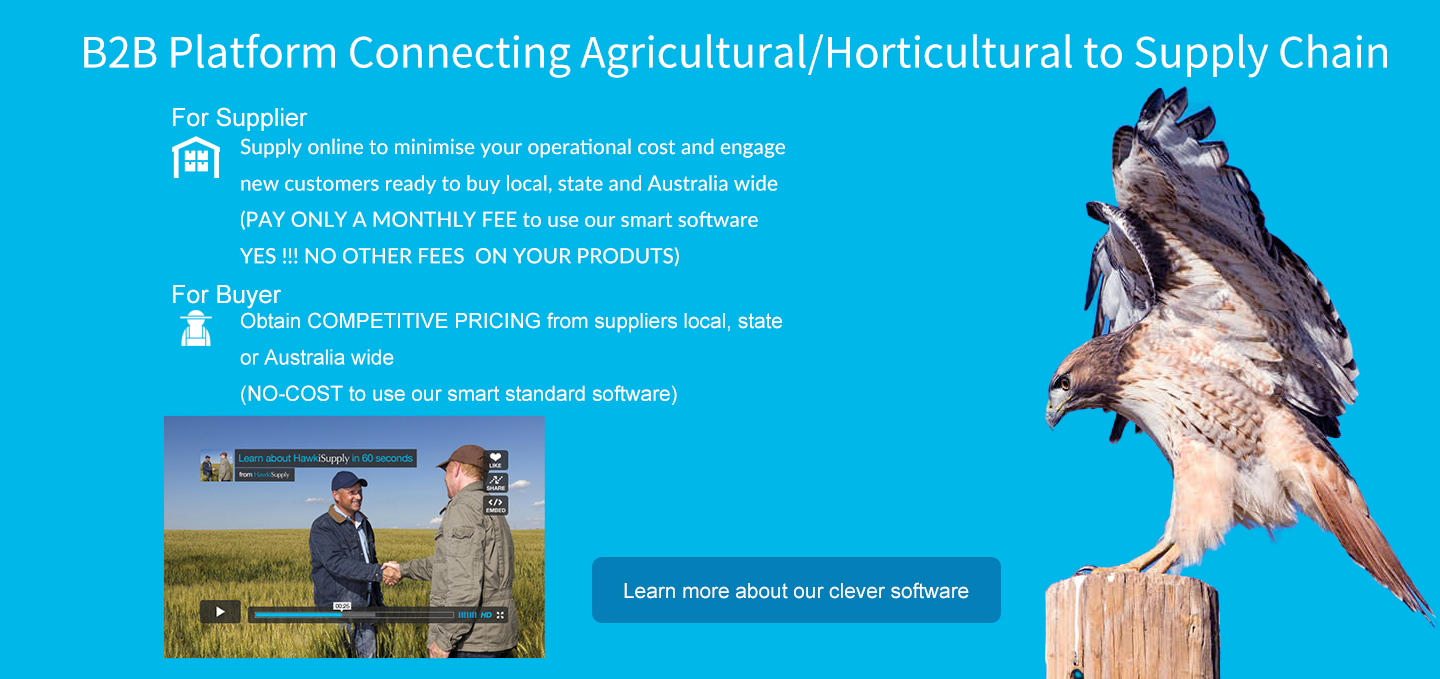
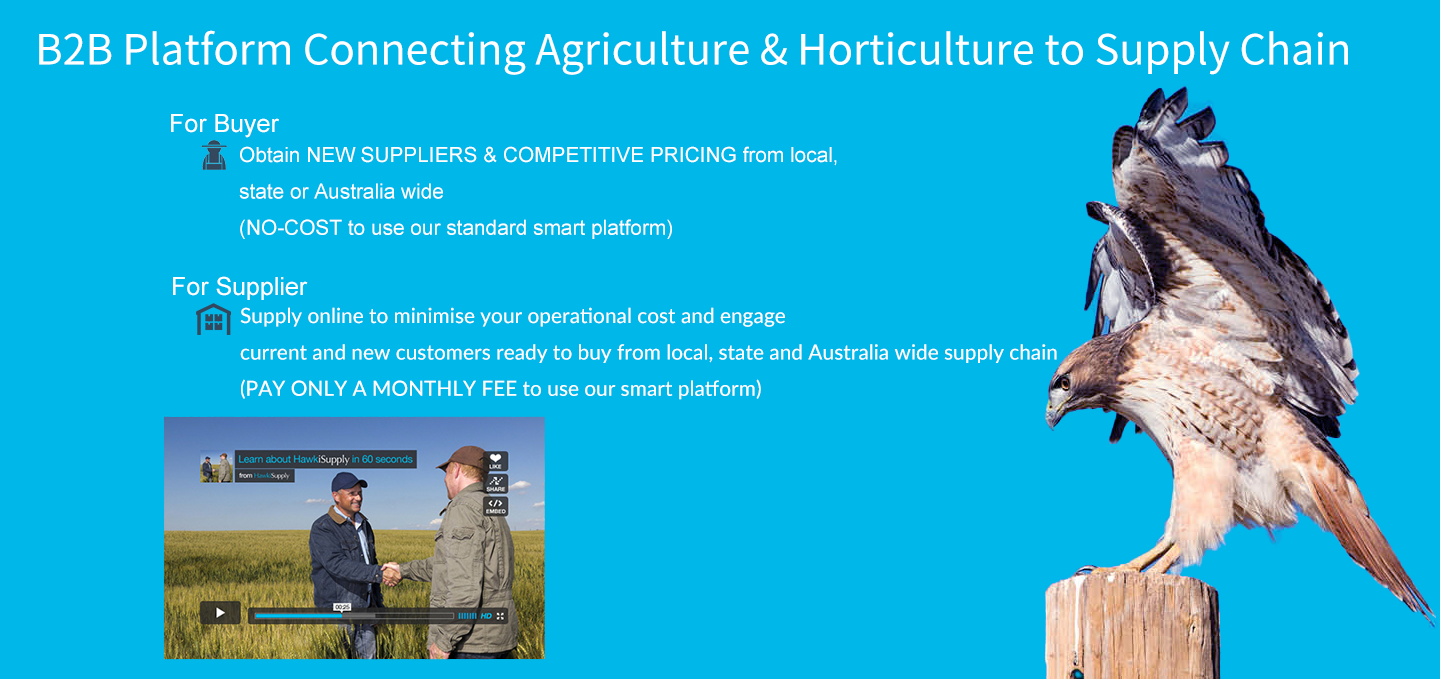
fixed the make offer page ui

diff --git a/application/views/user/supplier/submitOffer.php b/application/views/user/supplier/submitOffer.php
@@ -131,6 +131,7 @@ display:inline-block;
 <div class="container">
 </div>
 
+<label for="validationTooltip01" class="prod-label">Order number <?php echo $viewOfferOrder[0]->order_random_id;?></label>
 <div class="offer_form">
 <form  action="" method="post" enctype="multipart/form-data">
 <!-- begin of product row -->
@@ -140,6 +141,8 @@ for($i=1;$i<11;$i++){
 	if($viewOfferOrder[0]->{'order_name_'.$i}){
     ?>
 <div class="row">
+
+
 			<div class="col-md-3 mb-3 prod-name">
 			  <label for="validationTooltip01" class="prod-label">Product Name <?echo $i;?>:</label>
 			  <input type="text" class="form-control prod-input" id="validationTooltip01" placeholder="" value="<?php echo (isset($viewOfferOrder[0]->{'order_name_'.$i}))? $viewOfferOrder[0]->{'order_name_'.$i} : "" ; ?>" disabled>
@@ -183,7 +186,7 @@ for($i=1;$i<11;$i++){
 
 <div class="row">
 
-	<div class="col-md-6 prod-name hidden priceContainer">
+	<div class="col-md-3 prod-name hidden priceContainer">
 		<label for="price_<?echo $i;?>"class="prod-label">Quote Price</label>
 		<input type="text" class="form-control prod-input price" id="price_<?echo $i;?>" placeholder="" >
 	</div>
@@ -343,6 +346,8 @@ for($i=1;$i<11;$i++){
 			  <span class="error" style="color:red;" ><?php echo form_error('insurance');?></span>
 			</div> -->
 
+
+
 			<div class="input_fields_wrap" >
 		 		<?php echo form_open_multipart('welcome/do_upload');?>
 				<label for="comment" class="prod-label">Images1:</label> 
@@ -357,51 +362,25 @@ for($i=1;$i<11;$i++){
 				<img   id="cu2" width="100" height="80" src=" https://dummyimage.com/300x200/000/fff.jpg&text=no+image">  <i class="fa fa-trash" aria-hidden="true" id="image2" style="font-size:30px;color:red;" ></i><br>
 			</div>
 		
+			<div class="input_fields_wrap" >
 		 	<?php echo form_open_multipart('welcome/do_upload');?>
 			<label for="comment" class="prod-label">Images3:</label>
 			<input class="supplier-image" type="file" name="image3" value="" id='3' >
 			<img    id="cu3"  width="100" height="80" src=" https://dummyimage.com/300x200/000/fff.jpg&text=no+image">  <i class="fa fa-trash" aria-hidden="true" id="image3"style="font-size:30px;color:red;"></i><br>
-		
+		</div>
+			<div class="input_fields_wrap" >
 		 	<?php echo form_open_multipart('welcome/do_upload');?>
 			<label for="comment" class="prod-label">Images4:</label>
 			<input class="supplier-image" type="file" name="image4" value=""  id='4' >
 			<img  id="cu4" width="100" height="80" src="https://dummyimage.com/300x200/000/fff.jpg&text=no+image">  <i class="fa fa-trash" aria-hidden="true" id="image4" style="font-size:30px;color:red;"></i><br>
-		
+		</div>
+			<div class="input_fields_wrap" >
 			<?php echo form_open_multipart('welcome/do_upload');?>
 			<label for="comment" class="prod-label">Images5:</label>
 			<input class="supplier-image" type="file" name="image5" value=""  id='5' >
 			<img  id="cu5" width="100" height="80" src="https://dummyimage.com/300x200/000/fff.jpg&text=no+image">  <i class="fa fa-trash" aria-hidden="true" id="image5" style="font-size:30px;color:red;"></i><br>
-		
-			<?php echo form_open_multipart('welcome/do_upload');?>
-			<label for="comment" class="prod-label">Images6:</label>
-			<input class="supplier-image" type="file" name="image6" value=""  id='6' >
-			<img  id="cu6" width="100" height="80" src="https://dummyimage.com/300x200/000/fff.jpg&text=no+image">  <i class="fa fa-trash" aria-hidden="true" id="image6" style="font-size:30px;color:red;"></i><br>
 
-			<?php echo form_open_multipart('welcome/do_upload');?>
-			<label for="comment" class="prod-label">Images7:</label>
-			<input class="supplier-image" type="file" name="image4" value=""  id='7' >
-			<img  id="cu7" width="100" height="80" src="https://dummyimage.com/300x200/000/fff.jpg&text=no+image">  <i class="fa fa-trash" aria-hidden="true" id="image7" style="font-size:30px;color:red;"></i><br>
-
-			<?php echo form_open_multipart('welcome/do_upload');?>
-			<label for="comment" class="prod-label">Images8:</label>
-			<input class="supplier-image" type="file" name="image4" value=""  id='8' >
-			<img  id="cu8" width="100" height="80" src="https://dummyimage.com/300x200/000/fff.jpg&text=no+image">  <i class="fa fa-trash" aria-hidden="true" id="image8" style="font-size:30px;color:red;"></i><br>
-
-			<?php echo form_open_multipart('welcome/do_upload');?>
-			<label for="comment" class="prod-label">Images9:</label>
-			<input class="supplier-image" type="file" name="image4" value=""  id='9' >
-			<img  id="cu9" width="100" height="80" src="https://dummyimage.com/300x200/000/fff.jpg&text=no+image">  <i class="fa fa-trash" aria-hidden="true" id="image9" style="font-size:30px;color:red;"></i><br>
-
-			<?php echo form_open_multipart('welcome/do_upload');?>
-			<label for="comment" class="prod-label">Images10:</label>
-			<input class="supplier-image" type="file" name="image4" value=""  id='10' >
-			<img  id="cu10" width="100" height="80" src="https://dummyimage.com/300x200/000/fff.jpg&text=no+image">  <i class="fa fa-trash" aria-hidden="true" id="image10" style="font-size:30px;color:red;"></i><br>
-		
-		
-		
-		
-		
-		
+		</div>
 			<input type="hidden" placeholder="payment status"  value="0" name="payment_status">
 			<!--<span class="error" style="color:red;" ><?php echo form_error('payment_status');?></span>-->
 		<div class="row">
@@ -516,10 +495,10 @@ $("#cu4").attr("src","https://dummyimage.com/300x200/000/fff.jpg&text=no+image")
 
 	   if(checked){
 	   		$(this).closest('label').next().find('.more_time').attr("disabled",true);
-	   		$(this).closest('label').next('label').next().find('.can_supply').attr("disabled",true);}
+	   		$(this).closest('label').prev().find('.can_supply').attr("disabled",true);}
 	   else{
 		    $(this).closest('label').next().find('.more_time').attr("disabled",false);
-	   		$(this).closest('label').next('label').next().find('.can_supply').attr("disabled",false);
+	   		$(this).closest('label').prev().find('.can_supply').attr("disabled",false);
 	   }
    });    
 //    need delay option
@@ -548,12 +527,12 @@ $("#cu4").attr("src","https://dummyimage.com/300x200/000/fff.jpg&text=no+image")
    $('.can_supply').click(function(){
 	   let checked = $(this).is(':checked');
 	   if(checked){
-		   $(this).closest('label').prev().find('.more_time').attr("disabled",true);
-		   $(this).closest('label').prev('label').prev().find('.no_supply').attr("disabled",true);
+		   $(this).closest('label').next().find('.no_supply').attr("disabled",true);
+		   $(this).closest('label').next('label').next().find('.more_time').attr("disabled",true);
 		   $(this).closest('div').next().find('.priceContainer ').removeClass('hidden');
 	   }else{
-		   $(this).closest('label').prev().find('.more_time').attr("disabled",false);
-		   $(this).closest('label').prev('label').prev().find('.no_supply').attr("disabled",false);
+		   $(this).closest('label').next().find('.no_supply').attr("disabled",false);
+		   $(this).closest('label').next('label').next().find('.more_time').attr("disabled",false);
 		   $(this).closest('div').next().find('.priceContainer ').addClass('hidden');
 	   }
    })